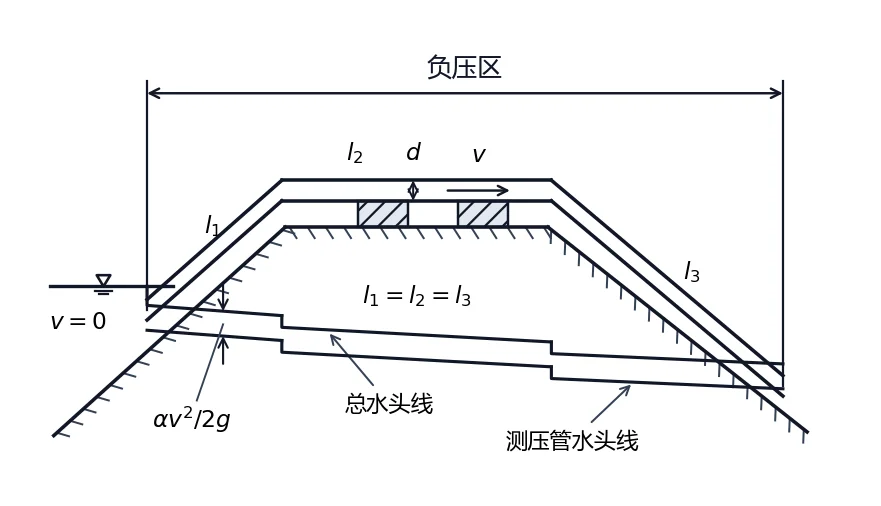
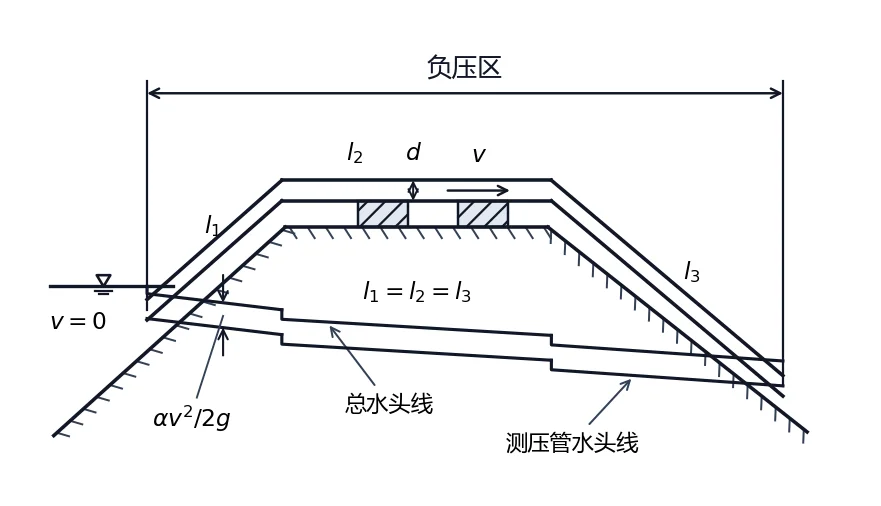
fix(hhu-814): 勘误2011-04、2014-09、2017-10答案解析并重绘2017-10附图，更新SW缓存至v32

Changed region(s): [[0.1532, 0.5632, 0.8888, 0.8597], [0.5516, 0.83, 0.7355, 0.919]]

diff --git a/web/public/sw.js b/web/public/sw.js
@@ -1,4 +1,4 @@
-const CACHE_NAME = 'jingyan-multi-v31';
+const CACHE_NAME = 'jingyan-multi-v32';
 const PRECACHE_URLS = [
   './',
   './index.html',
